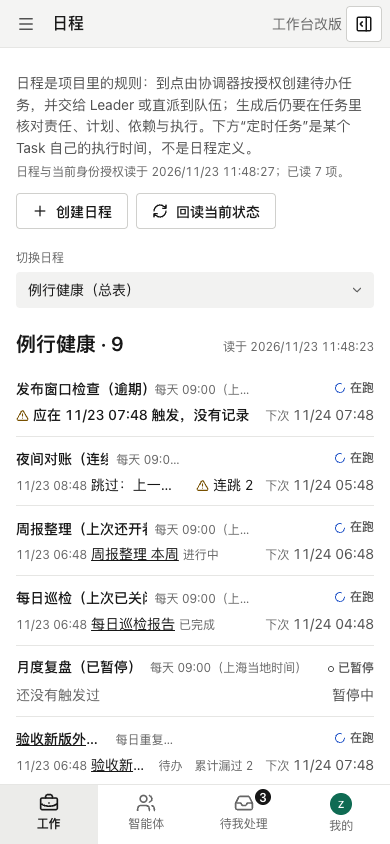
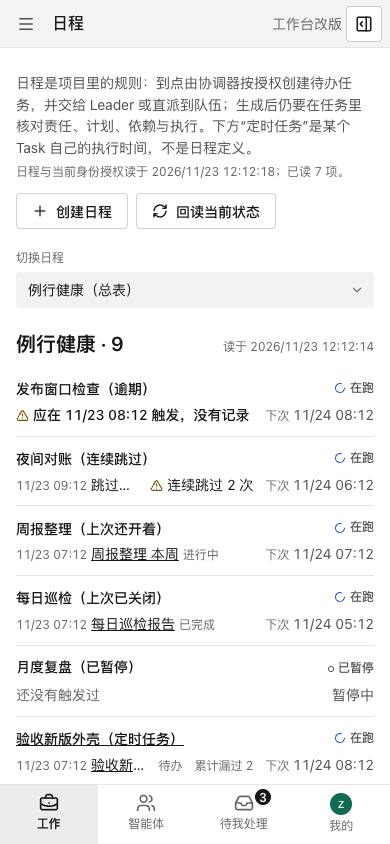
例行健康：连续跳过写成“连续跳过 N 次”，窄屏让出标题宽度（Task acfaa4f0-d0f6-4853-8950-7058058a08ac）
验收退回：390 宽没有列头，“连跳 2”不是人话。改成“连续跳过 2 次”（0 仍不显示）；
窄屏两行重排，标题不再被截成两三个字；规则一句话只在宽屏列出。重拍截图。

diff --git a/apps/workbench/src/features/scheduling/RoutineHealthTable.tsx b/apps/workbench/src/features/scheduling/RoutineHealthTable.tsx
@@ -13,7 +13,7 @@ const stateTone = { active: "progress", paused: "idle", stopped: "history" } as 
 // One warning marker for both an overdue routine and skips in a row; no row background.
 const Warn = () => <><TriangleAlert size={13} aria-hidden="true" className="mr-1 inline shrink-0 align-[-2px] text-warning" /><span className="sr-only">需要注意：</span></>;
 // Wide: name | last trigger | skips in a row | next | state. Narrow: two lines (name, state / last trigger, skips, next).
-const columns = "desktop:grid-cols-[minmax(0,2.2fr)_minmax(0,3fr)_5rem_minmax(0,1.3fr)_5rem]";
+const columns = "desktop:grid-cols-[minmax(0,2fr)_minmax(0,3.6fr)_7.5rem_minmax(0,1fr)_5rem]";
 
 export interface RoutineHealthView { health: RoutineHealth | null; loading: boolean; error: string | null }
 
@@ -28,8 +28,8 @@ export function RoutineHealthTable({ view, projectId, actorId, onOpen, onRetry, 
     const schedule = item.kind === "schedule";
     const open = () => { if (schedule) onOpen(item.id); };
     const name = schedule
-      ? <Button variant="link" onClick={open} className="min-w-0 max-w-[55%] shrink-0 justify-start truncate text-small font-medium text-foreground desktop:max-w-full">{item.title}</Button>
-      : <a href={timedTaskHref(projectId, item.lastTrigger?.task?.taskId ?? item.rootTaskId ?? "", { rootTaskId: item.rootTaskId ?? "", title: item.title }, actorId)} className="min-w-0 max-w-[55%] shrink-0 truncate text-small font-medium text-foreground underline desktop:max-w-full">{item.title}</a>;
+      ? <Button variant="link" onClick={open} className="min-w-0 max-w-[65%] shrink-0 justify-start truncate text-small font-medium text-foreground desktop:max-w-full"><span className="truncate">{item.title}</span></Button>
+      : <a href={timedTaskHref(projectId, item.lastTrigger?.task?.taskId ?? item.rootTaskId ?? "", { rootTaskId: item.rootTaskId ?? "", title: item.title }, actorId)} className="min-w-0 max-w-[65%] shrink-0 truncate text-small font-medium text-foreground underline desktop:max-w-full">{item.title}</a>;
     const lastCell = overdue
       ? <><span data-cell="overdue" className="block truncate font-medium" title={last.kind === "none" ? overdue : `${overdue}；上次 ${last.full}`}><Warn />{overdue}</span>
         {last.kind !== "none" && <span className={cn(muted, "hidden truncate desktop:block")}>上次 {last.at} · {last.kind === "skipped" ? `跳过：${last.reason}` : last.task.title}</span>}</>
@@ -41,21 +41,25 @@ export function RoutineHealthTable({ view, projectId, actorId, onOpen, onRetry, 
           <span className={cn(muted, "shrink-0")}>{last.queued ? "排队中" : taskStateLabel[last.task.state as keyof typeof taskStateLabel] ?? last.task.state}</span>
         </span>;
     return <li key={`${item.kind}:${item.id}`} data-routine={item.id} data-kind={item.kind} data-attention={needsAttention(item) ? "" : undefined}
-      className={cn("grid grid-cols-[minmax(0,1fr)_auto] items-baseline gap-x-3 gap-y-1 border-t border-border py-2.5 first:border-t-0", columns, schedule && "cursor-pointer")}
+      className={cn("grid grid-cols-1 items-baseline gap-x-3 gap-y-1 border-t border-border py-2.5 first:border-t-0", columns, schedule && "cursor-pointer")}
       onClick={event => { if (!(event.target as HTMLElement).closest("a,button")) open(); }}>
-      <div className="flex min-w-0 items-baseline gap-2 desktop:flex-col desktop:gap-0">
+      <div className="flex min-w-0 items-baseline justify-between gap-3 desktop:contents">
+      <div className="flex min-w-0 flex-1 items-baseline gap-2 desktop:flex-col desktop:gap-0">
         {name}
-        <span className={cn(muted, "min-w-0 truncate")}>{periodText(item, it => it.rule ? scheduleRuleText(it.rule, it.timezone, now) : "")}</span>
+        <span className={cn(muted, "hidden min-w-0 truncate desktop:block")}>{periodText(item, it => it.rule ? scheduleRuleText(it.rule, it.timezone, now) : "")}</span>
       </div>
-      <div className="flex justify-end desktop:col-start-5 desktop:row-start-1 desktop:justify-start"><StatusTag tone={stateTone[item.state]} label={routineStateLabel[item.state]} /></div>
+      <div className="flex shrink-0 justify-end desktop:col-start-5 desktop:row-start-1 desktop:justify-start"><StatusTag tone={stateTone[item.state]} label={routineStateLabel[item.state]} /></div>
+      </div>
+      <div className="flex min-w-0 items-baseline justify-between gap-3 desktop:contents">
       <div className="min-w-0 text-small text-foreground desktop:col-start-2 desktop:row-start-1">{lastCell}</div>
-      <div className="flex items-baseline justify-end gap-3 desktop:contents">
+      <div className="flex shrink-0 items-baseline justify-end gap-3 desktop:contents">
         <span data-cell="skips" className="text-small tabular-nums text-foreground desktop:col-start-3 desktop:row-start-1 empty:hidden desktop:empty:block">
-          {item.consecutiveSkips > 0 && <>{warnsSkips(item) && <Warn />}连跳 {item.consecutiveSkips}</>}
+          {item.consecutiveSkips > 0 && <>{warnsSkips(item) && <Warn />}连续跳过 {item.consecutiveSkips} 次</>}
           {item.kind === "timed_series" && item.skippedTotal ? <span className={muted}>累计漏过 {item.skippedTotal}</span> : null}
         </span>
         <span data-cell="next" className="text-small text-text-secondary desktop:col-start-4 desktop:row-start-1 desktop:text-foreground" title={item.nextAtUtc ? routineTime(item.nextAtUtc, item.timezone) : undefined}>
           {item.nextAtUtc && <span className={cn(muted, "desktop:hidden")}>下次 </span>}{item.state === "stopped" ? "—" : nextText(item)}</span>
+      </div>
       </div>
     </li>;
   };

diff --git a/apps/workbench/test/routine-health-ci-browser.test.ts b/apps/workbench/test/routine-health-ci-browser.test.ts
@@ -85,7 +85,7 @@ test("例行健康: one read, what needs a look first, stopped folded, a row ope
     assert.equal(shown.includes(ids.f), false); assert.equal(shown.includes(ids.sample), false);
     const text = await table.innerText();
     assert.match(text, /应在 .+ 触发，没有记录/, `${label}: overdue says so`);
-    assert.match(text, /连跳 2/); assert.match(text, /上一份任务还没结束，按设置跳过这个时刻/);
+    assert.match(text, /连续跳过 2 次/); assert.match(text, /上一份任务还没结束，按设置跳过这个时刻/);
     assert.match(await table.locator(`[data-routine="${ids.e}"]`).innerText(), /还没有触发过/);
     assert.ok(!/跳过/.test(await table.locator(`[data-routine="${ids.e}"]`).innerText()), "never triggered is not skipped");
     assert.doesNotMatch(await table.locator(`[data-routine="${ids.a}"] [data-cell=skips]`).innerText(), /\d/, "no skip number at 0");

diff --git a/docs/frontend/pages/schedules.md b/docs/frontend/pages/schedules.md
@@ -38,7 +38,7 @@
 | 逾期 | 在跑的例行，核对水位落后超过一个周期加 30 分钟且没有新触发记录，写“应在〈时间〉触发，没有记录”，与连续跳过共用同一个警示标记，不加行底色；因缺授权而没有记录的也只显示为逾期，不推断原因 |
 | 顺序 | 逾期、连续跳过两次及以上、上次任务还开着、其余按下次时间；服务端排好，页面不重排 |
 | 读取 | 一次只读请求 `GET /api/projects/:projectId/routine-health` 返回全部行，不新增迁移；读不到时表头写“健康表读不到”并给重试，左栏日程列表和详情照常可用 |
-| 窄屏 | 390 宽每行两行（名称与状态、上次结果与下次时间），不横向滚动；浅色与深色都按[设计语言](../principles.md)用状态标签，不用底色块 |
+| 窄屏 | 390 宽每行两行（名称与状态、上次结果与连续跳过、下次时间；规则一句话只在宽屏列出，窄屏进详情看），不横向滚动；浅色与深色都按[设计语言](../principles.md)用状态标签，不用底色块 |
 
 ![例行健康，1440，浅色](../../assets/frontend-pages/schedules-health-1440-light.png)
 
